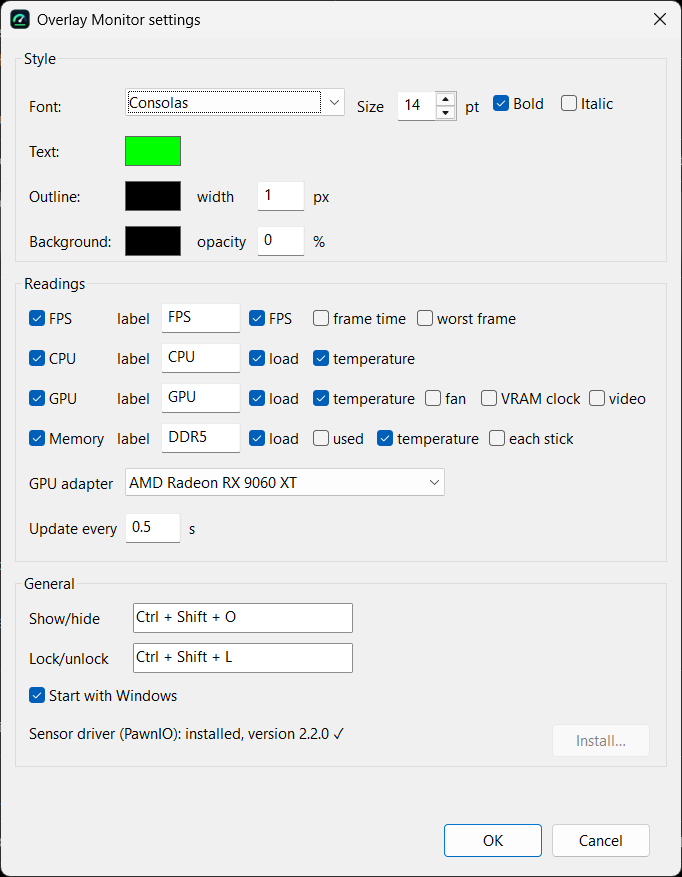
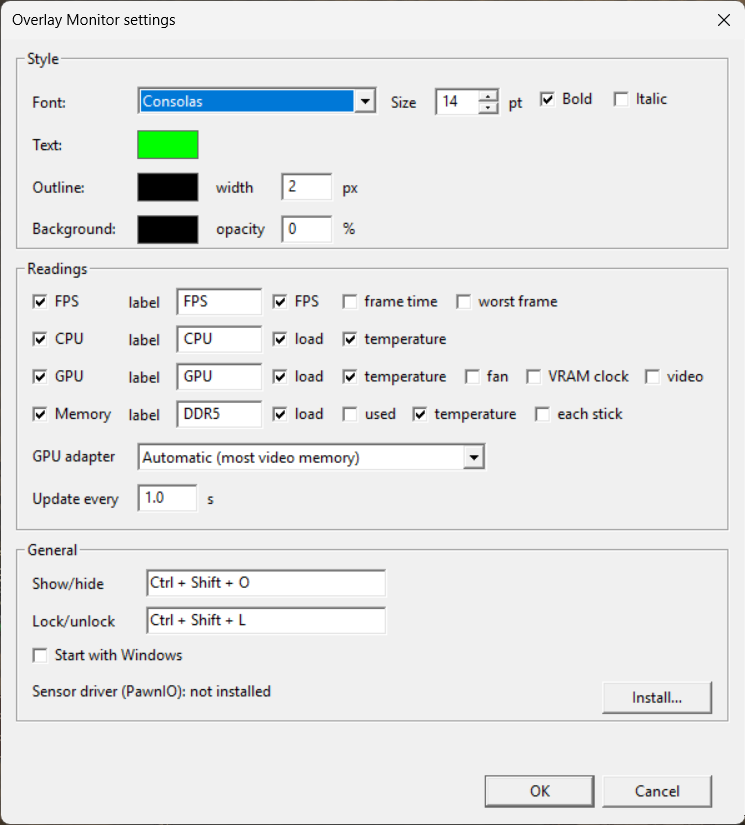
docs: keep the owner's hardware out of the docs and samples
The README, ADR-0016, ADR-0019, the settings screenshot, and test
sample strings named the owner's CPU, GPU, monitor, and game. They now
describe the setup in general terms, and tests use other models.

diff --git a/services/monitor/application/src/diagnostics/tests.rs b/services/monitor/application/src/diagnostics/tests.rs
@@ -5,14 +5,14 @@ fn facts() -> SystemFacts {
     SystemFacts {
         app_version: String::from("0.1.0"),
         windows: String::from("Windows 11 Pro 25H2 (build 26300.7171)"),
-        cpu: String::from("AMD Ryzen 7 7800X3D 8-Core Processor (AuthenticAMD, family 0x19, model 0x61, stepping 2)"),
+        cpu: String::from("AMD Ryzen 7 7700X 8-Core Processor (AuthenticAMD, family 0x19, model 0x61, stepping 2)"),
         memory: String::from("DDR5 x2"),
         pawnio: PawnIoStatus::Installed {
             version: String::from("2.2.0"),
         },
         gpus: vec![
             GpuFact {
-                name: String::from("AMD Radeon RX 9060 XT"),
+                name: String::from("AMD Radeon RX 7800 XT"),
                 dedicated_bytes: 17_072_000_000,
                 temperature: Ok(56.0),
             },
@@ -50,11 +50,11 @@ fn the_report_lists_the_facts_then_every_reading() {
     let expected = [
         "Overlay Monitor 0.1.0",
         "Windows: Windows 11 Pro 25H2 (build 26300.7171)",
-        "CPU: AMD Ryzen 7 7800X3D 8-Core Processor (AuthenticAMD, family 0x19, model 0x61, stepping 2)",
+        "CPU: AMD Ryzen 7 7700X 8-Core Processor (AuthenticAMD, family 0x19, model 0x61, stepping 2)",
         "Memory: DDR5 x2",
         "PawnIO: installed, version 2.2.0 ✓",
         "Graphics adapters:",
-        "  AMD Radeon RX 9060 XT, 15.9 GiB dedicated, 56.0 °C",
+        "  AMD Radeon RX 7800 XT, 15.9 GiB dedicated, 56.0 °C",
         "  AMD Radeon(TM) Graphics, 0.5 GiB dedicated, temperature: the driver reports no temperature",
         "Readings:",
         "  FPS: 30.0",

diff --git a/services/monitor/infrastructure/src/ryzen/tests.rs b/services/monitor/infrastructure/src/ryzen/tests.rs
@@ -9,7 +9,7 @@ use super::{RyzenTemperature, tctl_celsius};
 fn tctl_is_eleven_bits_of_eighths_minus_49_when_the_range_bit_is_set() {
     assert!(
         (tctl_celsius(0x5F3B_0000) - 46.125).abs() < 1e-9,
-        "the owner's 7800X3D read in the spike"
+        "a Zen 4 part read in the spike"
     );
     assert!(
         (tctl_celsius(0x5F30_0000) - 95.125).abs() < 1e-9,
@@ -49,7 +49,7 @@ fn zen_1_and_zen_plus_models_subtract_their_offset() {
     assert!((offset(0x17, "AMD Ryzen 7 2700X Eight-Core Processor") - 10.0).abs() < 1e-9);
     assert!((offset(0x17, "AMD Ryzen Threadripper 1950X 16-Core Processor") - 27.0).abs() < 1e-9);
     assert!(offset(0x17, "AMD Ryzen 7 2700 Eight-Core Processor").abs() < 1e-9);
-    assert!(offset(0x19, "AMD Ryzen 7 7800X3D 8-Core Processor").abs() < 1e-9);
+    assert!(offset(0x19, "AMD Ryzen 7 7700X 8-Core Processor").abs() < 1e-9);
     assert!(offset(0x19, "AMD Ryzen 7 1800X Eight-Core Processor").abs() < 1e-9);
 }
 

diff --git a/services/monitor/infrastructure/src/gpu/tests.rs b/services/monitor/infrastructure/src/gpu/tests.rs
@@ -17,9 +17,9 @@ fn adapter(name: &str, luid: u64, gib: u64) -> GpuAdapter {
 fn the_adapter_with_the_most_dedicated_memory_is_followed() {
     let list = [
         adapter("AMD Radeon(TM) Graphics", 1, 0),
-        adapter("AMD Radeon RX 9060 XT", 0xD3E5, 16),
+        adapter("AMD Radeon RX 7800 XT", 0xD3E5, 16),
     ];
-    assert_eq!(pick_adapter(&list).unwrap().name, "AMD Radeon RX 9060 XT");
+    assert_eq!(pick_adapter(&list).unwrap().name, "AMD Radeon RX 7800 XT");
 }
 
 #[test]
@@ -130,9 +130,9 @@ fn an_adapter_without_video_engines_has_no_video_load() {
 #[test]
 fn the_gpu_sensors_name_their_adapter_in_the_details() {
     assert_eq!(
-        GpuTemperature::new(0xD3E5, "AMD Radeon RX 9060 XT")
+        GpuTemperature::new(0xD3E5, "AMD Radeon RX 7800 XT")
             .details()
             .as_deref(),
-        Some("adapter AMD Radeon RX 9060 XT")
+        Some("adapter AMD Radeon RX 7800 XT")
     );
 }

diff --git a/platform/win32/src/cpu/tests.rs b/platform/win32/src/cpu/tests.rs
@@ -33,7 +33,7 @@ fn an_alder_lake_signature_is_family_6_model_97h() {
 
 #[test]
 fn the_brand_is_trimmed_of_padding() {
-    let text = b"  AMD Ryzen 7 7800X3D 8-Core Processor\0\0\0\0\0\0\0\0\0\0";
+    let text = b"  AMD Ryzen 7 7700X 8-Core Processor\0\0\0\0\0\0\0\0\0\0";
     let mut padded = [0u8; 48];
     padded[..text.len().min(48)].copy_from_slice(&text[..text.len().min(48)]);
     let mut words = [0u32; 12];
@@ -41,7 +41,7 @@ fn the_brand_is_trimmed_of_padding() {
         *word = u32::from_le_bytes(*chunk);
     }
 
-    assert_eq!(brand_from_registers(&words), "AMD Ryzen 7 7800X3D 8-Core Processor");
+    assert_eq!(brand_from_registers(&words), "AMD Ryzen 7 7700X 8-Core Processor");
 }
 
 #[test]

diff --git a/services/monitor/interfaces/src/settings_window/tests.rs b/services/monitor/interfaces/src/settings_window/tests.rs
@@ -15,7 +15,7 @@ use super::{
 };
 
 fn gpu_names() -> Vec<String> {
-    vec!["Radeon RX 9060 XT".to_owned(), "AMD Radeon(TM) Graphics".to_owned()]
+    vec!["Radeon RX 7800 XT".to_owned(), "AMD Radeon(TM) Graphics".to_owned()]
 }
 
 /// The entries the family drop-down holds for a window opened with Consolas.
@@ -209,7 +209,7 @@ fn choosing_an_adapter_previews_its_name() {
     let WindowOutcome::Preview(settings) = outcome else {
         panic!("expected a preview, got {outcome:?}");
     };
-    assert_eq!(settings.gpu.as_deref(), Some("Radeon RX 9060 XT"));
+    assert_eq!(settings.gpu.as_deref(), Some("Radeon RX 7800 XT"));
 }
 
 #[test]

diff --git a/services/monitor/infrastructure/src/settings_file/tests.rs b/services/monitor/infrastructure/src/settings_file/tests.rs
@@ -54,7 +54,7 @@ fn customised() -> Settings {
     let defaults = Settings::default();
     let mut settings = Settings {
         update_interval: Duration::from_millis(2500),
-        gpu: Some(String::from("AMD Radeon RX 9060 XT")),
+        gpu: Some(String::from("AMD Radeon RX 7800 XT")),
         show_hide: ShortcutKeys::parse("Ctrl+Alt+F9").expect("a usable shortcut"),
         lock_unlock: ShortcutKeys::parse("Alt+Shift+L").expect("a usable shortcut"),
         start_with_windows: true,

diff --git a/README.md b/README.md
@@ -30,7 +30,7 @@ Works over the desktop and borderless or windowed games, on Windows 10 1809 or l
 | GPU | load, temperature | fan speed, VRAM clock, video engine load |
 | Memory (`DDR5`, or `RAM` otherwise) | load, temperature of the hottest stick | GB used, each stick's temperature |
 
-A value the PC cannot give shows `—`, never a guess, and so does a value that stops updating. CPU and memory temperatures need PawnIO and administrator; FPS needs administrator (or the "Performance Log Users" group); everything else needs neither. Tested on an AMD Ryzen 7 7800X3D, Radeon RX 9060 XT, and DDR5 on an AMD board; Intel CPUs, Intel-board DDR5, and DDR4 are implemented but untested.
+A value the PC cannot give shows `—`, never a guess, and so does a value that stops updating. CPU and memory temperatures need PawnIO and administrator; FPS needs administrator (or the "Performance Log Users" group); everything else needs neither. Intel CPUs, Intel-board DDR5, DDR4, and Windows 10 are implemented but not yet tested on real hardware.
 
 ![The settings window](docs/images/settings.png)
 
@@ -54,7 +54,7 @@ flowchart LR
     UI <--> CFG[("settings.toml")]
 ```
 
-- **No injection.** The overlay is its own see-through, topmost window that never takes focus (`UpdateLayeredWindow` with per-pixel alpha). Text is laid out with DirectWrite, its coverage is grown into the outline, and the app composes the pixels itself, so no Direct2D or Direct3D is loaded. On the owner's FreeSync setup the overlay made no measurable difference to how games present ([ADR-0016](docs/adr/0016-overlay-presentation.md)).
+- **No injection.** The overlay is its own see-through, topmost window that never takes focus (`UpdateLayeredWindow` with per-pixel alpha). Text is laid out with DirectWrite, its coverage is grown into the outline, and the app composes the pixels itself, so no Direct2D or Direct3D is loaded. In a FreeSync test the overlay made no measurable difference to how a game presents ([ADR-0016](docs/adr/0016-overlay-presentation.md)).
 - **FPS** counts the foreground app's frames from the DirectX kernel's `Present` events, the way PresentMon does; Xbox-app games are followed to the process that actually presents.
 - **Loads** come from `GetSystemTimes`, `GlobalMemoryStatusEx`, and the GPU engine counters Task Manager uses. **GPU temperature, fan, and VRAM clock** come from the driver's adapter performance data (D3DKMT).
 - **CPU and DDR5 temperatures** go through the signed [PawnIO](https://github.com/namazso/PawnIO) driver: AMD's SMN register or Intel's thermal MSRs, and the SPD5118 sensor hubs on the memory's SMBus. Hardware is only ever read, under the same shared locks HWiNFO and LibreHardwareMonitor take.

diff --git a/docs/adr/0019-extra-readings.md b/docs/adr/0019-extra-readings.md
@@ -20,8 +20,8 @@ The spec lists "readings beyond the four lines" as a non-goal. This decision dep
 3. **Zero rules.** A driver leaves a field at 0 when it does not report it, and a zero-rpm fan also reports 0 at rest, so the fan is `—` until it has turned once in this run, after which every value, 0 included, is real. A VRAM clock of 0 is `—`. A GPU without a video engine, a frame rate with fewer than two presents, and a missing hub scan show `—`.
 4. **Fixed widths.** Each value has a fixed width, right-aligned, and `—` takes the same width, so a column never jumps. The formats are in the plan and in the code that renders them.
 5. **Left out**, because each would need another query or says too little:
-   - `Power`: a share of an unstated limit in tenths of a percent, and 0 on the owner's card.
-   - `MemoryBandwidth` and `PCIEBandwidth`: 0 and a constant 3 on the owner's card, with a driver-defined meaning.
+   - `Power`: a share of an unstated limit in tenths of a percent, and 0 on the test card.
+   - `MemoryBandwidth` and `PCIEBandwidth`: 0 and a constant 3 on the test card, with a driver-defined meaning.
    - `MaxMemoryFrequency`, `MaxMemoryFrequencyOC`, and the VRAM size: constants.
    - The CPU kernel and user split: noise next to the load.
    - Commit charge: page-file backed, rarely what a game feels.

diff --git a/docs/adr/0016-overlay-presentation.md b/docs/adr/0016-overlay-presentation.md
@@ -7,7 +7,7 @@
 
 The overlay sits on top of borderless games. An extra window over a game can stop Windows from handing the game's frames straight to the display (independent flip). The game is then composed by the desktop window manager, and FreeSync stops following its frame rate. The spec's anti-goal is silently costing a game FreeSync or a frame of latency. Two ways to present the overlay were built as a spike: a layered window (`UpdateLayeredWindow`) and a composition swap chain (DirectComposition). The owner measured both with PresentMon 2.6.0 on 2026-11-13.
 
-Setup: Path of Exile (`PathOfExile.exe`, DXGI, sync interval 0, no tearing flag), borderless, on the main monitor (2560x1440 at 240 Hz, Radeon RX 9060 XT, FreeSync on in AMD Software). Each run is 20 seconds of normal play in the same kind of scene.
+Setup: a borderless DXGI game (sync interval 0, no tearing flag) on a 240 Hz monitor with FreeSync on in the GPU driver. Each run is 20 seconds of normal play in the same kind of scene.
 
 | Run | Presents | Present mode | Frame rate | Display intervals |
 | --- | --- | --- | --- | --- |
